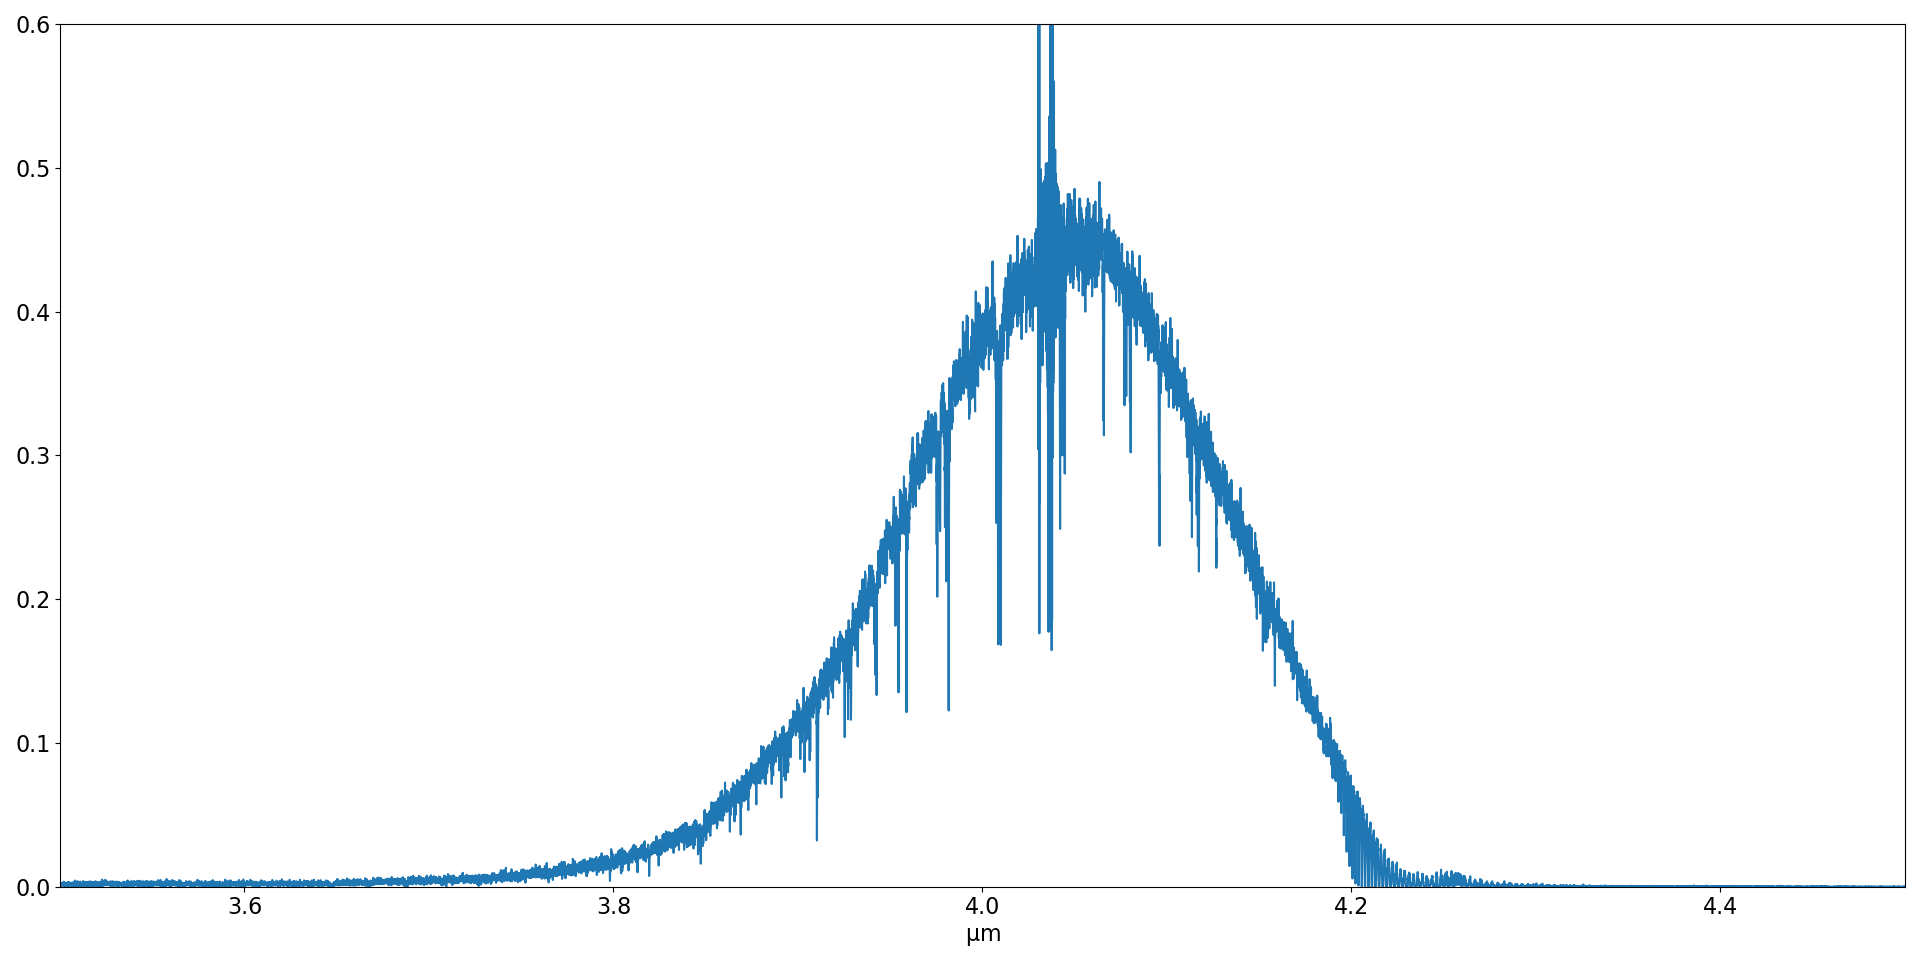
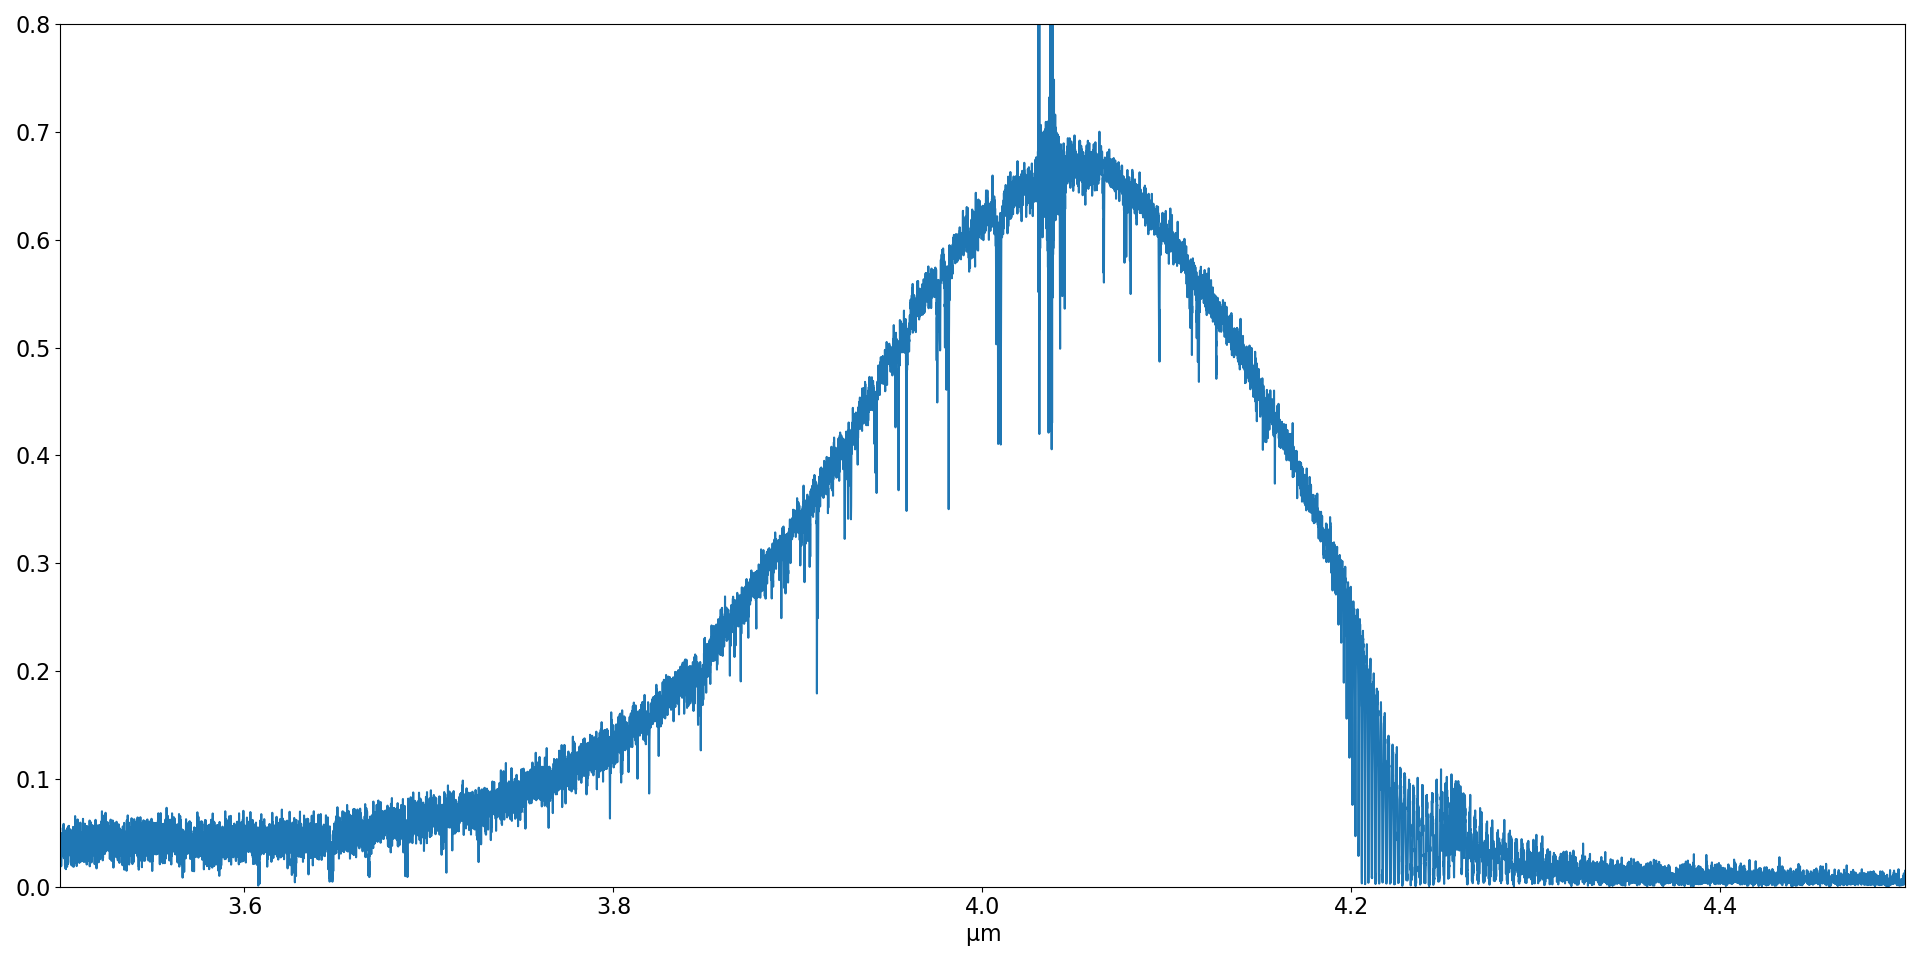
fixed a plot (accidentally plotted abs()**2)

diff --git a/nyquist_bandwidths.py b/nyquist_bandwidths.py
@@ -5,9 +5,6 @@ import scipy.constants as sc
 
 clipboard_and_style_sheet.style_sheet()
 
-start = sc.c / 4.55e-6
-end = sc.c / 3.45e-6
-
 
 def bandwidth(fr, dfr):
     return fr ** 2 / (2 * dfr)
@@ -69,7 +66,7 @@ def find_allowed_nyquist_bandwidths(vi, vf):
     N_vf = int(vf // dnu_min)
     N_vi = int(vi // dnu_min)
     bounds_vi = vi / np.arange(1, N_vi + 1)
-    bounds_vf = end / np.arange(2, N_vf + 1)
+    bounds_vf = nu_end / np.arange(2, N_vf + 1)
 
     bounds_vf = bounds_vf[::-1]
     bounds_vi = bounds_vi[::-1]
@@ -95,17 +92,19 @@ def return_allowed_indices_dnu(dnu, vi, vf):
 
 # %%
 # fr = 1e9
-# allowed_dnu_windows = find_allowed_nyquist_bandwidths(start, end)
-# allowed_dfr_windows = find_allowed_dfr(start, end, fr)
+# nu_start = sc.c / 4.55e-6
+# nu_end = sc.c / 3.45e-6
+# allowed_dnu_windows = find_allowed_nyquist_bandwidths(nu_start, nu_end)
+# allowed_dfr_windows = find_allowed_dfr(nu_start, nu_end, fr)
 #
-# dfr = np.linspace(50, fr ** 2 / (2 * (end - start)), 5000)
+# dfr = np.linspace(50, fr ** 2 / (2 * (nu_end - nu_start)), 5000)
 # dnu = bandwidth(fr, dfr)
-# ind = return_allowed_indices_dnu(dnu, start, end)
+# ind = return_allowed_indices_dnu(dnu, nu_start, nu_end)
 #
 # x = np.zeros(len(dfr))
 # plt.plot(dfr[ind], x[ind], '.')
 # [plt.axvline(i) for i in allowed_dfr_windows.flatten()]
-# plt.axvline(fr ** 2 / (2 * end))
+# plt.axvline(fr ** 2 / (2 * nu_end))
 #
 # """Given an fr an dfr, we can also calculate the nearest fr, or nearest dfr that would give us an integer ppifg.
 #

diff --git a/10-26-2021-Data.py b/10-26-2021-Data.py
@@ -77,10 +77,10 @@ nu_end = dnu * 4
 freq_axis = np.linspace(nu_start, nu_end, len(fft_freq) // 2)
 wl_axis = (sc.c / freq_axis) * 1e6
 
-fig, ax = plt.subplots(1, 1, figsize=np.array([19.2 ,  9.63]))
-ax.plot(wl_axis, ft_avg[:len(ft_avg) // 2].__abs__() ** 2)
+fig, ax = plt.subplots(1, 1, figsize=np.array([19.2, 9.63]))
+ax.plot(wl_axis, ft_avg[:len(ft_avg) // 2].__abs__())
 ax.set_xlim(3.5, 4.5)
-ax.set_ylim(0, 0.6)
+ax.set_ylim(0, 0.8)
 ax.set_xlabel("$\mathrm{\mu m}$")
 # plt.savefig("10-26-2021-Data.png")
 
